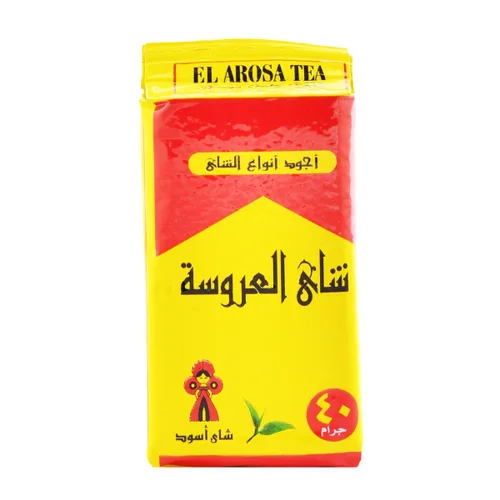
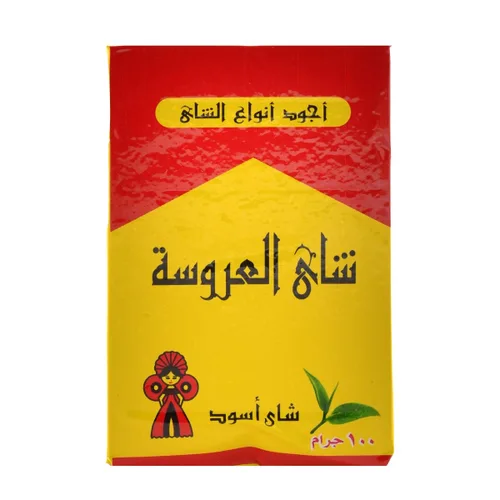
adjust al arousa tea values in seeding file

diff --git a/SmartCart.Infrastructure/DatabaseSeeder.cs b/SmartCart.Infrastructure/DatabaseSeeder.cs
@@ -130,11 +130,11 @@ public static class DatabaseSeeder
                 {
                     ProductName = "Alarousa Black Tea",
                     ProductCode = 1001,
-                    ProductWeight = 40.00m,
+                    ProductWeight = 100.00m,
                     Quantity = 100,
-                    ProductPrice = 9.95m,
+                    ProductPrice = 22.95m,
                     ProductImage = "alarousa_tea.jpg",
-                    ProductDescription = "Alarousa Black Tea - 40g pack",
+                    ProductDescription = "Alarousa Black Tea - 100g pack",
                     IsAvaiable = true,
                     CategoryId = categories.First(c => c.CategoryName == "Beverages").CategoryId,
                     IsOffer = false,
